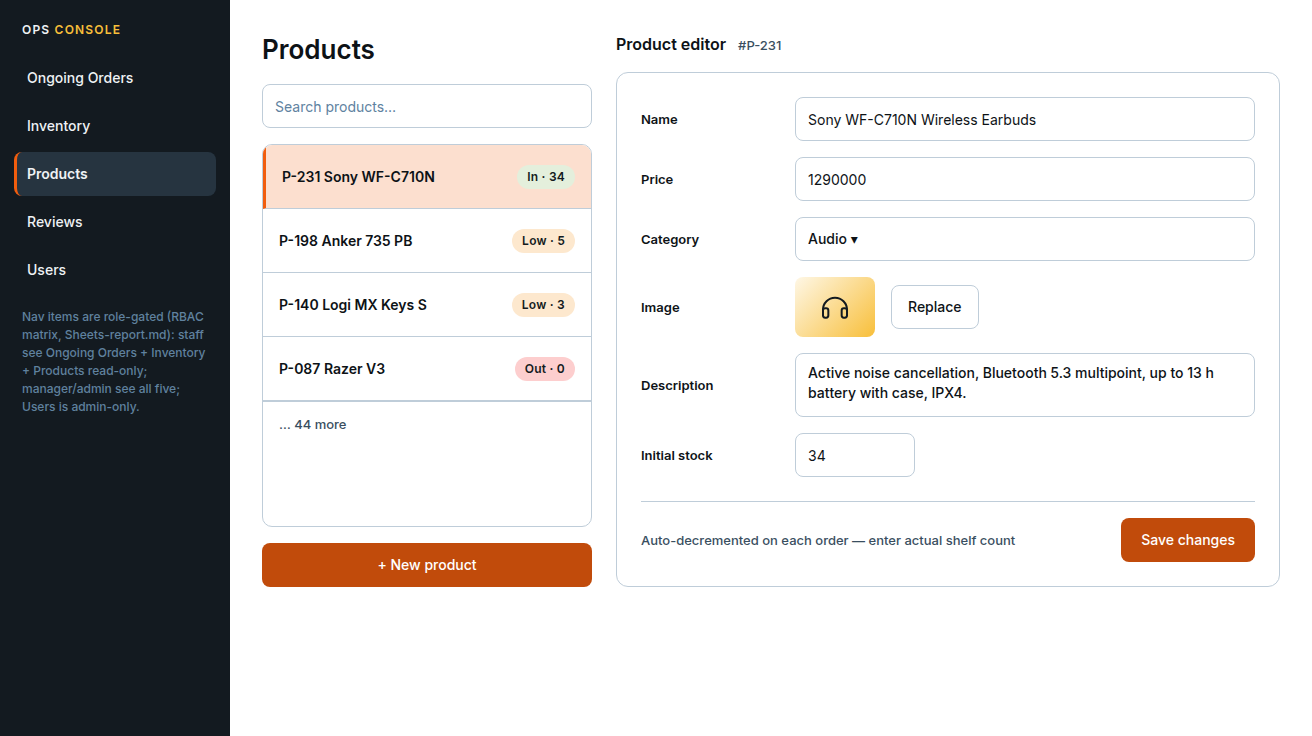
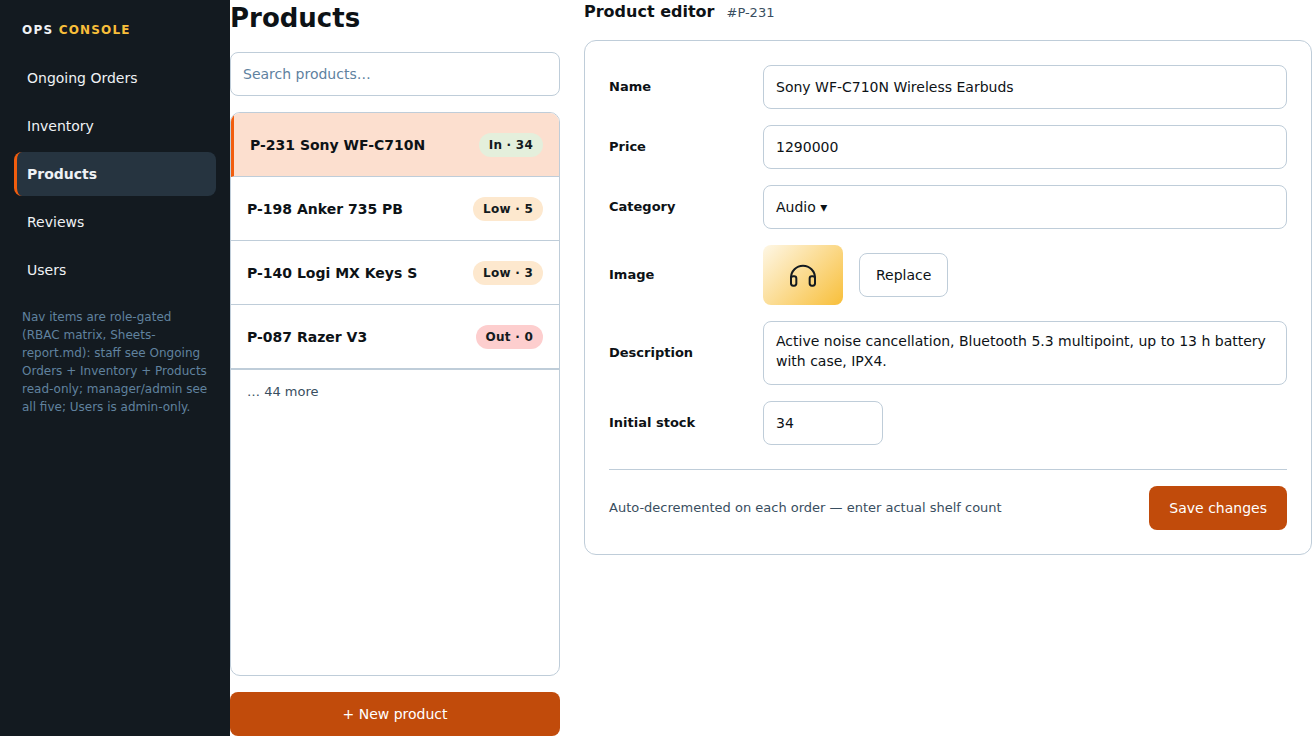
docs: final pre-merge refresh — re-render 13 mockups, autosync design docs, add RENDER recipe
Re-rendered all 13 mockups from the tracked v4 generator (build_html.py -> out/*.html -> headless Chromium 1312x736) and synced docs/<p>/mockup.png + out/*.png (invariant docs == out == fresh render, md5-verified 13/13). Stamped every design.md VISUALIZATION section with its render source + date; main-store carries the grid-only caveat (hero/rail generator still on the unmerged orphan chain f7ca077..11612b9). Conformance gate green (exit 0, CLEAN 5/5). Added docs/RENDER.md — the user-facing re-render/verify recipe — and _mockup-build/rebuild_docs_png.sh (now also refreshes out/*.png). .gitignore: keep regenerable out/ + verify/ build noise untracked.

diff --git a/docs/RENDER.md b/docs/RENDER.md
@@ -1,0 +1,125 @@
+# RENDER.md — how to re-render + verify the 13 mockups
+
+Use this to independently verify that the design docs on this branch match a
+fresh render of the committed HTML generator, before the draft PR is merged
+to `main`. Re-run the whole sequence on a clean checkout of this branch;
+everything is reproducible from tracked files only (no `/tmp`, no external
+assets).
+
+## Prerequisites
+
+- This branch checked out in a repo clone or git worktree (all commands run
+  from the repo/worktree root).
+- `/snap/bin/chromium` available (Snap Chromium on Ubuntu). **Snap gotcha:**
+  the HTML input and the output PNG must both live under `~` or inside the
+  project dir — never in `/tmp`, because Snap's private tmpfs makes Chromium
+  see `ERR_FILE_NOT_FOUND`. All commands below render in-place under
+  `_mockup-build/`, so they are safe.
+- `python3.12` (the generator uses PEP-701 nested f-strings); plain
+  `python3` works as fallback.
+- `node` (only needed for the conformance gate).
+
+## Step 1 — regenerate the 13 HTML sources from the tracked generator
+
+```sh
+python3.12 _mockup-build/build_html.py
+```
+
+Writes `_mockup-build/out/<page>.html` for all 13 pages from the tracked
+`lib.py` / `pages_*.py`. This guarantees the HTML you render is exactly what
+is committed on the branch (never a stale local build).
+
+## Step 2 — re-render all 13 mockups + sync + md5-verify (one command)
+
+```sh
+bash _mockup-build/rebuild_docs_png.sh
+```
+
+What it does, in order:
+1. Renders `out/<page>.html` → `out/<page>.png` (refreshes the committed-
+   snapshot slot) for all 13 pages.
+2. Renders a second independent pass into `verify/<page>.png` (byte-stability
+   check of the render itself).
+3. Copies the fresh `out/<page>.png` → `docs/<page>/mockup.png` for all 13.
+4. Prints a per-page table: `STABLE`/`drift-note` + `docs-synced`/
+   `docs-MISSING` + the md5 prefix.
+
+Pass condition: every row says `docs-synced` and the script prints
+`OK: docs/<p>/mockup.png == out/<p>.png == fresh render of out/<p>.html for
+all 13 pages` and exits 0.
+
+`drift-note` on a page means two independent Chromium renders of the same
+HTML were not byte-identical (sub-pixel PNG re-encoding noise). That is
+expected and **not** a sync failure — the hard invariant is
+`docs/ == out/ == fresh render of out/*.html`.
+
+### Raw re-render loop (what the script does, by hand)
+
+```sh
+for p in cart checkout inventory-dashboard login main-store ongoing-orders \
+        orders-placed per-product-dashboard per-product-review-panel \
+        product-details register search-browse user-dashboard; do
+  /snap/bin/chromium --headless --no-sandbox --disable-gpu \
+    --disable-dev-shm-usage --hide-scrollbars \
+    --screenshot="$PWD/_mockup-build/out/$p.png" --window-size=1312,736 \
+    "file://$PWD/_mockup-build/out/$p.html"
+  cp _mockup-build/out/$p.png docs/$p/mockup.png
+done
+```
+
+## Step 3 — md5-verify the invariant (docs vs out vs fresh render)
+
+```sh
+# docs/<p>/mockup.png must md5-match _mockup-build/out/<p>.png (all 13)
+for p in cart checkout inventory-dashboard login main-store ongoing-orders \
+        orders-placed per-product-dashboard per-product-review-panel \
+        product-details register search-browse user-dashboard; do
+  a=$(md5sum "docs/$p/mockup.png" | cut -d' ' -f1)
+  b=$(md5sum "_mockup-build/out/$p.png" | cut -d' ' -f1)
+  [ "$a" = "$b" ] && echo "$p MATCH" || echo "$p MISMATCH"
+done
+```
+
+All 13 lines must read `MATCH`. (The 3-way check — docs vs out vs a brand-
+new render — is exactly what Step 2's script already reports via its
+`out/` + `verify/` passes, so this loop plus Step 2 together prove
+`docs == out == fresh render`.)
+
+## Step 4 — run the conformance gate
+
+```sh
+_mockup-build/verify_framework.sh
+```
+
+Exit 0 = green. It re-generates `out/*.html` from the tracked generator
+itself, then checks: framework files byte-identical to the 17da448 lock,
+no out-of-scale hex, no font-weight > 600, 8pt-grid spacing, and that every
+framework line deleted from `design.md` since the lock is still present or
+carries the `intended-redesign` marker.
+
+## Step 5 — inspect the git diff before merging
+
+```sh
+git status --short -- docs/ _mockup-build/
+```
+
+On a clean checkout of this branch you should see **no** modified files
+(`out/` and `verify/` are untracked build noise, `.gitignore`d). If a page
+shows `M docs/<p>/mockup.png`, the docs were out of date — re-run Step 2,
+commit the refresh, and re-verify.
+
+## Known caveat (main-store hero)
+
+The tracked generator on this branch renders **main-store grid-only** (no
+hero banner, no 6-tile category rail). The v4 hero + rail generator HTML
+lives on the unmerged orphan chain `f7ca077→680850e→b80abfe→11612b9`, so a
+re-render here intentionally shows grid-only; the hero remains spec + asset
+(`docs/main-store/hero-banner.png`), documented at the VISUALIZATION section
+of `docs/main-store/design.md`. No other page has this issue — the other
+12 mockups reproduce byte-faithfully from the tracked generator.
+
+---
+
+**Re-run this whole sequence (Steps 1–5) before merging the draft to
+`main`** — it takes about a minute and proves the committed docs match what
+the committed generator renders.

diff --git a/docs/main-store/design.md b/docs/main-store/design.md
@@ -75,6 +75,16 @@ unified pill badges, filled CTA stack).
 
 ![Main store homepage mockup](mockup.png)
 
+> mockup.png rendered from _mockup-build/out/main-store.html via headless Chromium @ 2026-09-22
+> **Render caveat:** the tracked generator on this branch (`_mockup-build/lib.py` /
+> `pages_storefront.py`) renders main-store **grid-only** — no hero banner, no
+> 6-tile category rail. The v4 hero + rail HTML lives on the unmerged orphan
+> chain `f7ca077→680850e→b80abfe→11612b9` (merge-base 17da448, NOT an ancestor
+> of this branch), so the mockup above intentionally shows the tracked generator's
+> output, not the hero-composite asset. The hero banner and category rail remain
+> **spec-only** in this document (wireframe below + `docs/main-store/hero-banner.png`
+> asset), to be restored as the committed mockup only when that chain is merged.
+
 
 ASCII wireframe (desktop, ≥1024px):
 

diff --git a/docs/control-panel/design.md b/docs/control-panel/design.md
@@ -11,6 +11,13 @@ collapsing to 0px.
 Palette: `docs/color-tokens.md`. Typography & spacing:
 `docs/design-tokens-round3.md`.
 
+> **Render sync @ 2026-09-22:** this document is layout-only (no own mockup); its
+> app-shell gutter spec is verified visually by the 5 panel-page renders —
+> `docs/{ongoing-orders,inventory-dashboard,per-product-dashboard,
+> per-product-review-panel,user-dashboard}/mockup.png`, each re-rendered from
+> `_mockup-build/out/<page>.html` via headless Chromium the same day. Re-render
+> recipe: `docs/RENDER.md`.
+
 ## THE BUG (diagnosis)
 
 Round-3 mockups rendered the 230px `blueSlate-900` sidebar and the white

diff --git a/docs/per-product-dashboard/design.md b/docs/per-product-dashboard/design.md
@@ -48,6 +48,8 @@ product CRUD console: list, add, edit (pre-filled form per the sheet).
 
 ![Product management dashboard mockup](mockup.png)
 
+> mockup.png rendered from _mockup-build/out/per-product-dashboard.html via headless Chromium @ 2026-09-22
+
 
 ASCII wireframe (desktop — vertical 230px dark ops sidebar, not a top bar;
 master/detail split: list left, pre-filled editor right):

diff --git a/docs/register/design.md b/docs/register/design.md
@@ -31,6 +31,8 @@ typography, spacing, colors, and mobile collapse). They differ **only in the for
 
 ![Register page mockup](mockup.png)
 
+> mockup.png rendered from _mockup-build/out/register.html via headless Chromium @ 2026-09-22
+
 
 ASCII wireframe (desktop, ≥768px) — **identical to Login's wireframe; only the form and copy differ:**
 

diff --git a/docs/per-product-review-panel/design.md b/docs/per-product-review-panel/design.md
@@ -37,6 +37,8 @@ moderation console: approve / hide / delete reviews, scoped per product.
 
 ![Review moderation panel mockup](mockup.png)
 
+> mockup.png rendered from _mockup-build/out/per-product-review-panel.html via headless Chromium @ 2026-09-22
+
 
 ASCII wireframe (desktop — vertical 230px dark ops sidebar, not a top bar):
 

diff --git a/docs/ongoing-orders/design.md b/docs/ongoing-orders/design.md
@@ -45,6 +45,8 @@ ops mirror of Orders Placed.
 
 ![Ongoing orders dashboard mockup](mockup.png)
 
+> mockup.png rendered from _mockup-build/out/ongoing-orders.html via headless Chromium @ 2026-09-22
+
 
 ASCII wireframe (desktop, list variant — assumption, kanban is a flagged alt;
 vertical 230px dark ops sidebar, not a top bar):

diff --git a/docs/inventory-dashboard/design.md b/docs/inventory-dashboard/design.md
@@ -52,6 +52,8 @@ matrix-driven feature gating inside:
 
 ![Inventory dashboard mockup](mockup.png)
 
+> mockup.png rendered from _mockup-build/out/inventory-dashboard.html via headless Chromium @ 2026-09-22
+
 
 ASCII wireframe (desktop — vertical 230px dark ops sidebar, not a top bar):
 

diff --git a/docs/user-dashboard/design.md b/docs/user-dashboard/design.md
@@ -44,6 +44,8 @@ the strongest guard in the app.
 
 ![User management dashboard mockup](mockup.png)
 
+> mockup.png rendered from _mockup-build/out/user-dashboard.html via headless Chromium @ 2026-09-22
+
 
 ASCII wireframe (desktop — vertical 230px dark ops sidebar, not a top bar):
 

diff --git a/docs/search-browse/design.md b/docs/search-browse/design.md
@@ -47,6 +47,8 @@ unified pill badges, filled CTA stack).
 
 ![Search & browse results page mockup](mockup.png)
 
+> mockup.png rendered from _mockup-build/out/search-browse.html via headless Chromium @ 2026-09-22
+
 
 ASCII wireframe (desktop, ≥768px):
 

diff --git a/docs/login/design.md b/docs/login/design.md
@@ -37,6 +37,8 @@ the layout in that doc is identical to this one.
 
 ![Login page mockup](mockup.png)
 
+> mockup.png rendered from _mockup-build/out/login.html via headless Chromium @ 2026-09-22
+
 ASCII wireframe (desktop, ≥768px):
 
 ```

diff --git a/docs/product-details/design.md b/docs/product-details/design.md
@@ -46,6 +46,8 @@ unified pill badges, filled CTA stack).
 
 ![Product detail page mockup](mockup.png)
 
+> mockup.png rendered from _mockup-build/out/product-details.html via headless Chromium @ 2026-09-22
+
 
 ASCII wireframe (desktop):
 
